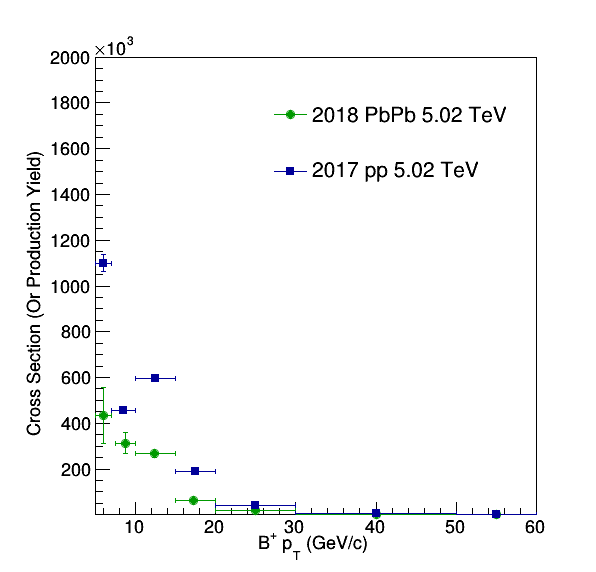
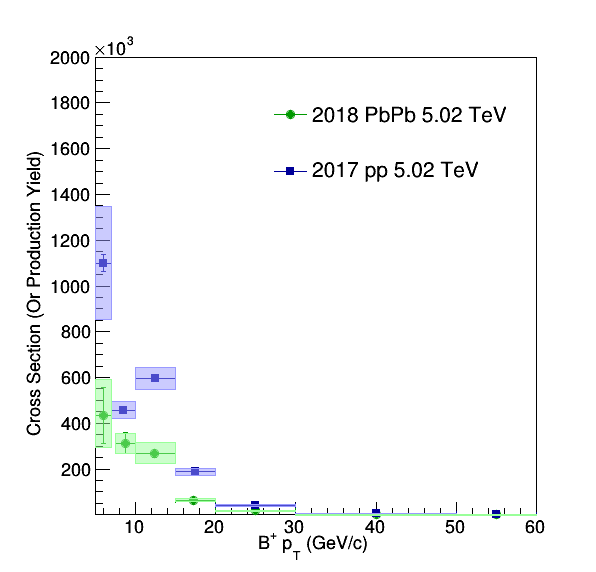
Updated RAA with Systematic Uncertainties for B+

Changed region(s): [[0.151, 0.6241, 0.3624, 0.8322], [0.302, 0.8619, 0.8758, 0.9213], [0.151, 0.3566, 0.2114, 0.5647]]

diff --git a/BsBPFinalResults/RAA/BPRAA.C b/BsBPFinalResults/RAA/BPRAA.C
@@ -118,6 +118,63 @@ void BPRAA(){
 
 
 
+	//Syst//
+
+
+
+	float BPXSecPPYSystUp[NBins];
+	float BPXSecPPYSystDown[NBins];
+
+
+
+	float BPMDDataSyst[NBins] = {0.208,0.00947,0.00458,0.0181,0.0490,0.0459,0.05};
+	float BPPDFSyst[NBins] = {0.020,0.0122,0.0091,0.0411,0.0120,0.0150,0.0140};
+	float BPPtShapeSyst[NBins] = {0.08,0.08,0.08,0.08,0.08,0.08,0.08};
+
+	float BPTnPSystDown[NBins] = {0.00454,0.00476,0.00382,0.00354,0.00429,0.00581,0.00613};
+	float BPTnPSystUp[NBins] = {0.00454,0.00476,0.00382,0.00354,0.00429,0.00581,0.00613};
+
+	float BPTotalSystDown[NBins];
+	float BPTotalSystUp[NBins];
+
+	for(int i = 0; i < NBins; i++){
+
+		
+		BPTotalSystDown[i] = TMath::Sqrt(BPMDDataSyst[i] * BPMDDataSyst[i] + BPPDFSyst[i] * BPPDFSyst[i] + BPPtShapeSyst[i] * BPPtShapeSyst[i] + BPTnPSystDown[i] * BPTnPSystDown[i]);
+		BPTotalSystUp[i] = TMath::Sqrt(BPMDDataSyst[i] * BPMDDataSyst[i] + BPPDFSyst[i] * BPPDFSyst[i] + BPPtShapeSyst[i] * BPPtShapeSyst[i] + BPTnPSystUp[i] * BPTnPSystUp[i]);
+
+
+	}
+	
+	for(int i = 0; i < NBins; i++){
+
+		BPXSecPPYSystUp[i] = BPXsecPPY[i] * ( BPTotalSystUp[i]);
+		BPXSecPPYSystDown[i] = BPXsecPPY[i] * (BPTotalSystDown[i] );
+		//cout << "i = " << i << "     BPXSecPPYSystDown[i] = " << BPXSecPPYSystDown[i] << "  BPXSecPPYErrDown[i] =  " << BPXSecPPYErrDown[i] << endl;
+		
+	}
+
+
+	//PbPb
+
+	float BPXSecPbPbYSystUpPercent[NBins] = {0.3577,0.1404,0.1714,0.0775,0.0858,0.0715,0.1253};
+	float BPXSecPbPbYSystDownPercent[NBins] = {0.3210,0.1359,0.1705,0.0761,0.0843,0.0699,0.1220};
+
+
+	float BPXSecPbPbYSystUp[NBins];
+	float BPXSecPbPbYSystDown[NBins];
+
+
+	for(int i = 0; i < NBins; i++){
+
+		BPXSecPbPbYSystDown[i] = (BPXSecPbPbYSystDownPercent[i]) * BPXsecPbPbY[i];
+		BPXSecPbPbYSystUp[i] = (BPXSecPbPbYSystUpPercent[i]) * BPXsecPbPbY[i];
+
+	}
+
+
+
+	
 
 
 
@@ -151,8 +208,23 @@ void BPRAA(){
 	BPPPCrossGraph->SetMarkerColor(kBlue+2);
 
 
+	TGraphAsymmErrors *BPPPCrossGraphSyst  = new TGraphAsymmErrors(NBins, BPXsecPPX, BPXsecPPY, BPXSecPPXErrDown, BPXSecPPXErrUp, BPXSecPPYSystDown,BPXSecPPYSystUp);
+  	TGraphAsymmErrors *BPPbPbCrossGraphSyst    = new TGraphAsymmErrors(NBins, BPXsecPbPbX, BPXsecPbPbY, BPXSecPbPbXErrDown, BPXSecPbPbXErrUp, BPXSecPbPbYSystDown,BPXSecPbPbYSystUp);
+
+
+	BPPPCrossGraphSyst->SetFillColorAlpha(kBlue-9,0.5);
+	BPPPCrossGraphSyst->SetLineColor(kBlue-9);
+	BPPbPbCrossGraphSyst->SetFillColorAlpha(kGreen-9,0.5);
+	BPPbPbCrossGraphSyst->SetLineColor(kGreen-9);
+
+
+
 	BPPbPbCrossGraph->Draw("epsame");	
 	BPPPCrossGraph->Draw("epsame");	
+
+	BPPPCrossGraphSyst->Draw("5same");	
+	BPPbPbCrossGraphSyst->Draw("5same");	
+	
 
 	TLegend* leg = new TLegend(0.45,0.65,0.75,0.85,NULL,"brNDC");
 	leg->SetBorderSize(0);
@@ -287,6 +359,10 @@ void BPRAA(){
 	float BPRAAXErrDown[NBins] = {1,1.23,2.4,2.2,5,10,5};
 
 
+	float BPRAAYSystUp[NBins] ;
+	float BPRAAYSystDown[NBins];
+
+
 
 	float BPRAAYErrUp[NBins];
 	float BPRAAYErrDown[NBins];
@@ -300,11 +376,16 @@ void BPRAA(){
 	float BPRAAX2015[NBins2015] = {8.5,12.5,17.5,25,40};
 
 
+
+
 	float BPRAAXErrUp2015[NBins2015] = {1.5,2.5,2.5,5,10};
 	float BPRAAXErrDown2015[NBins2015] = {1.5,2.5,2.5,5,10};
 
 	float BPRAAYErrUp2015[NBins2015] = {0.11,0.074,0.075,0.092,0.11};
 	float BPRAAYErrDown2015[NBins2015] = {0.11,0.074,0.075,0.092,0.11};
+
+	float BPRAAYSystUp2015[NBins2015] = {0.064,0.077,0.074,0.102,0.0539};
+	float BPRAAYSystDown2015[NBins2015] = {0.064,0.077,0.074,0.102,0.0539};
 
 
 
@@ -318,6 +399,10 @@ void BPRAA(){
 		BPRAAYErrDown[i] = BPRAAY[i] * TMath::Sqrt(BPXSecPbPbYErrDownPercent[i] * BPXSecPbPbYErrDownPercent[i] + BPXSecPPYErrDownPercent[i] * BPXSecPPYErrDownPercent[i]);
 		
 
+		BPRAAYSystDown[i] = BPRAAY[i] * TMath::Sqrt(BPXSecPbPbYSystDownPercent[i] * BPXSecPbPbYSystDownPercent[i] + BPTotalSystDown[i] * BPTotalSystDown[i]);
+		BPRAAYSystUp[i] = BPRAAY[i] * TMath::Sqrt(BPXSecPbPbYSystUpPercent[i] * BPXSecPbPbYSystUpPercent[i] + BPTotalSystUp[i] * BPTotalSystUp[i]);
+
+
 			
 	}
 
@@ -328,18 +413,22 @@ void BPRAA(){
 
 	TGraphAsymmErrors *BPRAAGraph = new TGraphAsymmErrors(NBins, BPRAAX, BPRAAY,BPRAAXErrDown, BPRAAXErrUp,BPRAAYErrDown,BPRAAYErrUp);
 	BPRAAGraph->SetName("BPRAAGraph");
+	TGraphAsymmErrors *BPRAAGraphSyst = new TGraphAsymmErrors(NBins, BPRAAX, BPRAAY,BPRAAXErrDown, BPRAAXErrUp,BPRAAYSystDown,BPRAAYSystUp);
+
 
 
 	TGraphAsymmErrors *BPRAAGraph2015 = new TGraphAsymmErrors(NBins2015, BPRAAX2015, BPRAAY2015,BPRAAXErrDown2015, BPRAAXErrUp2015,BPRAAYErrDown2015,BPRAAYErrUp2015);
-
+	TGraphAsymmErrors *BPRAAGraphSyst2015 = new TGraphAsymmErrors(NBins2015, BPRAAX2015, BPRAAY2015,BPRAAXErrDown2015, BPRAAXErrUp2015,BPRAAYSystDown2015,BPRAAYSystUp2015);
 
 
 	BPRAAGraph->SetLineColor(kRed+2);
 //	BPRAAGraph->SetFillColorAlpha(kRed+2,0.5);
 	BPRAAGraph->SetMarkerStyle(20);
 	BPRAAGraph->SetMarkerSize(1);
-
 	BPRAAGraph->SetMarkerColor(kRed+2);
+
+
+
 
 	BPRAAGraph2015->SetLineColor(kBlue+2);
 //	BPRAAGraph->SetFillColorAlpha(kRed+2,0.5);
@@ -348,10 +437,25 @@ void BPRAA(){
 	BPRAAGraph2015->SetMarkerColor(kBlue+2);
 	
 
+	BPRAAGraphSyst->SetFillColorAlpha(kRed-9,0.5);
+	BPRAAGraphSyst->SetLineColor(kRed-9);
+	BPRAAGraphSyst2015->SetFillColorAlpha(kBlue-9,0.5);
+	BPRAAGraphSyst2015->SetLineColor(kBlue-9);
 
+
+
+
+
+	TLine * Unity = new TLine(5,1,60,1);
+	Unity->SetLineWidth(2);
+	Unity->SetLineStyle(2);
+	Unity->SetLineColor(1);
 
 	HisEmptyRAA->Draw();
 	BPRAAGraph->Draw("ep");
+	BPRAAGraphSyst->Draw("5same");
+	Unity->Draw("SAME");
+	
 	c2->SaveAs("RAAPlots/BP/BPRAA.png");
 
 
@@ -359,6 +463,8 @@ void BPRAA(){
 	BPRAAGraph->Draw("ep");
 	BPRAAGraph->Draw("epSAME");
 	BPRAAGraph2015->Draw("epSAME");
+	BPRAAGraphSyst->Draw("5same");
+	BPRAAGraphSyst2015->Draw("5same");
 
 
 	TLegend* leg2 = new TLegend(0.30,0.75,0.60,0.90,NULL,"brNDC");
@@ -371,12 +477,9 @@ void BPRAA(){
 	leg2->AddEntry(BPRAAGraph2015,"2015 PbPb + 2015 pp","PL");
 	leg2->Draw("same");
 
-	TLine * Unity = new TLine(5,1,60,1);
-	Unity->SetLineWidth(2);
-	Unity->SetLineStyle(2);
-	Unity->SetLineColor(1);
-	Unity->Draw("SAME");
 
+
+	Unity->Draw("SAME");
 
 
 

diff --git a/README.md b/README.md
@@ -617,7 +617,24 @@ Likewisw, systematic uncertainties are also included to the RAA. To do so, go ba
 cd BsBPFinalResults/Comparisons/RAA/
 
 
+run root -b -l -q BPRAA.C
 
+The output results of B+ RAA with systematic uncertainties as a function of B+ pT is saved at 
+
+RAAPlots/BP/BPRAA.png
+
+and comparision with 2015 B+ RAA results is saved at  
+
+RAAPlots/BP/BPRAACompairson.png
+
+
+To do this for Bs, simply run 
+
+
+run root -b -l -q BsRAA.C
+
+
+The same resulrs for Bs save at RAAPlots/Bs
 
 # Tests
 
